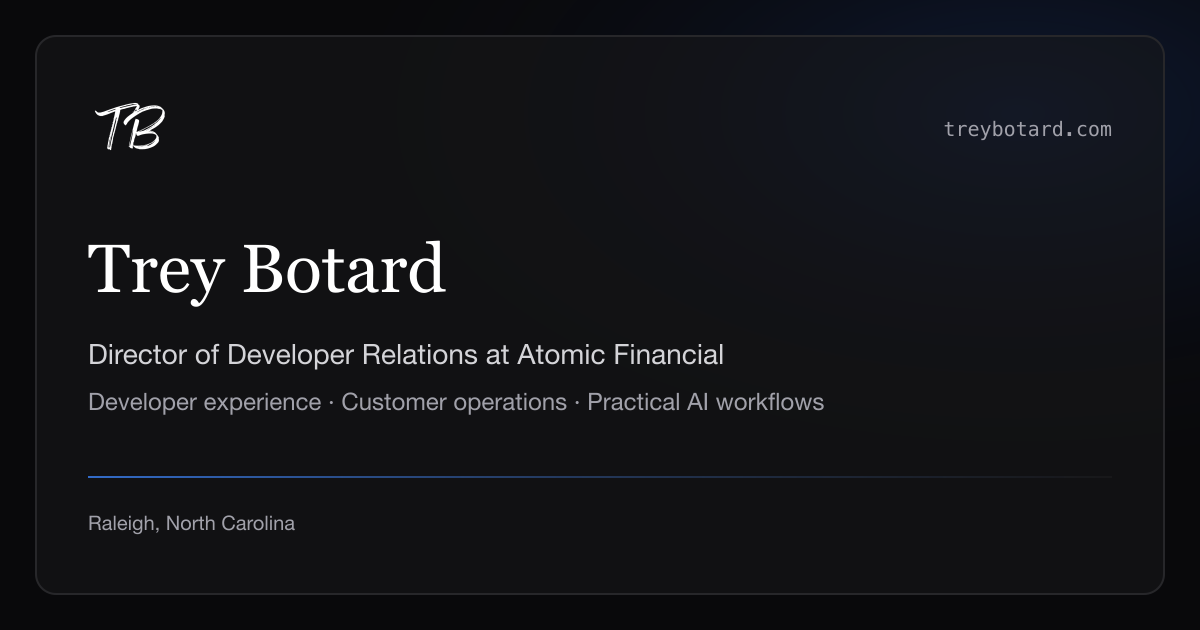
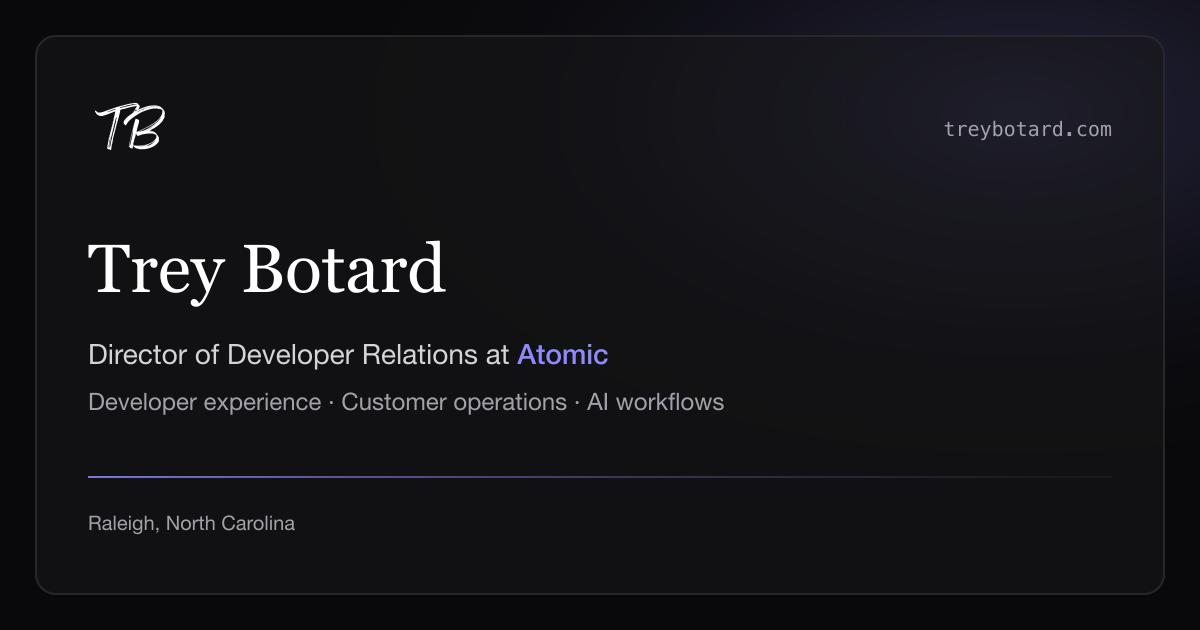
Remove em dashes, 'practical', and metric lines; style Atomic in Atomic purple

Changed region(s): [[0.0925, 0.754, 0.4933, 0.7841], [0.4933, 0.6032, 0.6783, 0.6635], [0.4317, 0.5429, 0.6167, 0.6032]]

diff --git a/data/site.ts b/data/site.ts
@@ -11,7 +11,9 @@ export type SocialProfile = {
 };
 
 export type SelectedWorkItem = {
-  eyebrow: string;
+  organization: string;
+  organizationHighlight?: boolean;
+  category: string;
   title: string;
   paragraphs: string[];
   tags: string[];
@@ -42,18 +44,18 @@ export type SpeakingItem = {
 export const siteConfig = {
   name: "Trey Botard",
   role: "Director of Developer Relations",
-  company: "Atomic Financial",
+  company: "Atomic",
   companyUrl: "https://atomic.financial",
   location: "Raleigh, North Carolina",
   url: "https://www.treybotard.com/",
   ogImage: "https://www.treybotard.com/og.png",
   title: "Trey Botard",
   description:
-    "Director of Developer Relations at Atomic Financial. Building developer experience, customer operations systems, and practical AI workflows.",
+    "Director of Developer Relations at Atomic. Building developer experience, customer operations systems, and AI workflows.",
   ogDescription:
-    "Director of Developer Relations at Atomic Financial — developer experience, customer operations systems, and practical AI workflows.",
+    "Director of Developer Relations at Atomic. Developer experience, customer operations systems, and AI workflows.",
   twitterDescription:
-    "Director of Developer Relations at Atomic Financial — developer experience, customer systems, and practical AI workflows.",
+    "Director of Developer Relations at Atomic. Developer experience, customer systems, and AI workflows.",
   linkedinUrl: "https://www.linkedin.com/in/treybotard",
   githubUrl: "https://github.com/tr3yb0",
 } as const;
@@ -96,28 +98,31 @@ export const socialProfiles: SocialProfile[] = [
 
 export const selectedWorkItems: SelectedWorkItem[] = [
   {
-    eyebrow: "Atomic Financial · Customer Operations",
+    organization: "Atomic",
+    organizationHighlight: true,
+    category: "Customer Operations",
     title: "Customer operations in Pylon",
     paragraphs: [
       "Customer requests were scattered across calls, Slack, email, spreadsheets, and issue trackers. I centralized intake in Pylon, connected requests to customer context, and defined ownership and escalation paths across implementation, support, reporting, and engineering.",
-      "From February through July 15, 2026, 235 of 277 issues assigned to me reached a closed or completed state.",
     ],
     tags: ["Workflow discovery", "Systems design", "Cross-functional adoption"],
   },
   {
-    eyebrow: "Atomic Financial · Developer Experience",
+    organization: "Atomic",
+    organizationHighlight: true,
+    category: "Developer Experience",
     title: "Executable developer experience",
     paragraphs: [
       "Built and connected API guidance, quickstarts, Postman workflows, demos, videos, SDK and webhook enablement, and release notes so developers and internal teams have working paths through Atomic’s platform.",
-      "439 commits across 24 repositories, including 224 commits to public documentation.",
     ],
     tags: ["Developer adoption", "Docs & quickstarts", "Self-service enablement"],
   },
   {
-    eyebrow: "Personal Lab · Applied AI",
+    organization: "Personal Lab",
+    category: "Applied AI",
     title: "AI operating layer for everyday work",
     paragraphs: [
-      "Testing a local-first AI workflow layer for personal and household ops across Linear, Calendar, a local Markdown knowledge graph, and selected shared Notion pages—focused on explicit sources of truth, draft-first safeguards, and staying useful over time.",
+      "Testing a local-first AI workflow layer for personal and household ops across Linear, Calendar, a local Markdown knowledge graph, and selected shared Notion pages, focused on explicit sources of truth, draft-first safeguards, and staying useful over time.",
     ],
     tags: ["AI workflows", "Tool routing", "Safeguards"],
     featured: true,
@@ -129,7 +134,7 @@ export const approachSteps: ApproachStep[] = [
     number: "01",
     title: "Start with real friction",
     description:
-      "Look across tickets, handoffs, docs, and customer calls for what actually repeats—not just the loudest one-off ask.",
+      "Look across tickets, handoffs, docs, and customer calls for what actually repeats, not just the loudest one-off ask.",
   },
   {
     number: "02",
@@ -148,11 +153,11 @@ export const approachSteps: ApproachStep[] = [
 export const experienceItems: ExperienceItem[] = [
   {
     role: "Director of Developer Relations",
-    company: "Atomic Financial",
+    company: "Atomic",
     companyUrl: "https://atomic.financial",
     current: true,
     description:
-      "Leading developer experience and technical adoption—covering public docs and API enablement, customer implementation, internal operating systems, enterprise delivery, and practical AI workflows.",
+      "Leading developer experience and technical adoption, covering public docs and API enablement, customer implementation, internal operating systems, enterprise delivery, and AI workflows.",
   },
   {
     role: "Developer Advocate",
@@ -196,5 +201,5 @@ export const speakingItems: SpeakingItem[] = [
 export const connectTopics = [
   "Developer experience & adoption",
   "Customer-facing operating systems",
-  "Practical AI workflows",
+  "AI workflows",
 ] as const;

diff --git a/components/Bio.vue b/components/Bio.vue
@@ -7,7 +7,7 @@ import { siteConfig } from "~/data/site";
     <div class="mb-10 flex items-center lg:hidden">
       <NuxtLink
         to="/"
-        aria-label="Trey Botard — Home"
+        aria-label="Trey Botard, Home"
         class="inline-flex items-center rounded p-1 focus-visible:outline focus-visible:outline-2 focus-visible:outline-offset-2 focus-visible:outline-blue-400"
       >
         <img
@@ -28,7 +28,8 @@ import { siteConfig } from "~/data/site";
     <p
       class="font-mono text-xs font-medium uppercase tracking-[0.18em] text-blue-400"
     >
-      {{ siteConfig.role }} · {{ siteConfig.company }}
+      {{ siteConfig.role }} ·
+      <span class="text-atomic">{{ siteConfig.company }}</span>
     </p>
     <h1
       class="mt-5 font-display text-4xl font-medium leading-[1.12] tracking-tight text-white sm:text-5xl"
@@ -43,13 +44,13 @@ import { siteConfig } from "~/data/site";
         :to="siteConfig.companyUrl"
         target="_blank"
         rel="noopener noreferrer"
-        class="rounded text-white underline decoration-zinc-600 underline-offset-4 transition-colors hover:text-blue-300 hover:decoration-blue-400 focus-visible:outline focus-visible:outline-2 focus-visible:outline-offset-2 focus-visible:outline-blue-400"
+        class="rounded font-medium text-atomic underline decoration-atomic/40 underline-offset-4 transition-colors hover:text-atomic-light hover:decoration-atomic-light focus-visible:outline focus-visible:outline-2 focus-visible:outline-offset-2 focus-visible:outline-atomic"
       >
         {{ siteConfig.company
         }}<span class="sr-only"> (opens in new tab)</span></NuxtLink
-      >—building docs, tools, and internal workflows that remove recurring
-      friction. Lately, I’ve also been building practical AI workflows for
-      day-to-day coordination and ops.
+      >, building docs, tools, and internal workflows that remove recurring
+      friction. Lately, I’ve also been building AI workflows for day-to-day
+      coordination and ops.
     </p>
 
     <div class="mt-8 flex flex-wrap gap-3">

diff --git a/components/Experience.vue b/components/Experience.vue
@@ -20,7 +20,7 @@ import { experienceItems } from "~/data/site";
         v-for="item in experienceItems"
         :key="`${item.role}-${item.company}`"
         class="border-l-2 pl-5"
-        :class="item.current ? 'border-blue-500' : 'border-zinc-700'"
+        :class="item.current ? 'border-atomic' : 'border-zinc-700'"
       >
         <div class="flex flex-wrap items-center gap-2.5">
           <h3 class="text-lg font-semibold text-white">
@@ -28,21 +28,21 @@ import { experienceItems } from "~/data/site";
           </h3>
           <span
             v-if="item.current"
-            class="rounded-full border border-blue-500/30 bg-blue-950/50 px-2.5 py-0.5 font-mono text-xs text-blue-300"
+            class="rounded-full border border-atomic/30 bg-atomic/10 px-2.5 py-0.5 font-mono text-xs text-atomic-light"
           >
             Current
           </span>
         </div>
         <p
           class="mt-0.5 text-sm"
-          :class="item.current ? 'text-blue-400' : 'text-zinc-400'"
+          :class="item.current ? 'text-atomic' : 'text-zinc-400'"
         >
           <NuxtLink
             v-if="item.companyUrl"
             :to="item.companyUrl"
             target="_blank"
             rel="noopener noreferrer"
-            class="rounded hover:text-blue-300 hover:underline focus-visible:outline focus-visible:outline-2 focus-visible:outline-offset-2 focus-visible:outline-blue-400"
+            class="rounded font-medium text-atomic hover:text-atomic-light hover:underline focus-visible:outline focus-visible:outline-2 focus-visible:outline-offset-2 focus-visible:outline-atomic"
           >
             {{ item.company }}<span class="sr-only"> (opens in new tab)</span>
           </NuxtLink>

diff --git a/components/TBFooter.vue b/components/TBFooter.vue
@@ -5,7 +5,18 @@ import { siteConfig, socialProfiles } from "~/data/site";
 <template>
   <footer class="border-t border-zinc-800 pt-8 text-sm text-zinc-400">
     <p class="font-medium text-zinc-200">{{ siteConfig.name }}</p>
-    <p class="mt-1">{{ siteConfig.role }} at {{ siteConfig.company }}</p>
+    <p class="mt-1">
+      {{ siteConfig.role }} at
+      <NuxtLink
+        :to="siteConfig.companyUrl"
+        target="_blank"
+        rel="noopener noreferrer"
+        class="rounded font-medium text-atomic hover:text-atomic-light hover:underline focus-visible:outline focus-visible:outline-2 focus-visible:outline-offset-2 focus-visible:outline-atomic"
+      >
+        {{ siteConfig.company
+        }}<span class="sr-only"> (opens in new tab)</span>
+      </NuxtLink>
+    </p>
     <p>{{ siteConfig.location }}</p>
     <nav class="mt-5 flex flex-row gap-1.5" aria-label="Social profiles">
       <NuxtLink

diff --git a/components/SelectedWork.vue b/components/SelectedWork.vue
@@ -30,7 +30,10 @@ import { selectedWorkItems } from "~/data/site";
           class="font-mono text-xs font-medium uppercase tracking-[0.16em]"
           :class="item.featured ? 'text-blue-400' : 'text-zinc-400'"
         >
-          {{ item.eyebrow }}
+          <span :class="item.organizationHighlight ? 'text-atomic' : ''">{{
+            item.organization
+          }}</span>
+          <span> · {{ item.category }}</span>
         </p>
         <h3 class="mt-2.5 text-xl font-semibold text-white">
           {{ item.title }}

diff --git a/components/Contact.vue b/components/Contact.vue
@@ -18,8 +18,8 @@ import { connectTopics, siteConfig } from "~/data/site";
       Let’s compare notes
     </h2>
     <p class="mt-4 max-w-2xl text-lg leading-8 text-zinc-300">
-      Working on developer experience, customer operations, or practical AI
-      workflows? Happy to compare notes.
+      Working on developer experience, customer operations, or AI workflows?
+      Happy to compare notes.
     </p>
 
     <ul class="mt-5 flex flex-wrap gap-2" aria-label="Conversation topics">

diff --git a/pages/index.vue b/pages/index.vue
@@ -12,7 +12,7 @@ useSeoMeta({
   ogImageWidth: 1200,
   ogImageHeight: 630,
   ogImageAlt:
-    "Trey Botard — Developer Relations, Technical Adoption, and Applied AI",
+    "Trey Botard: Developer Relations, Technical Adoption, and Applied AI",
   twitterCard: "summary_large_image",
   twitterTitle: siteConfig.title,
   twitterDescription: siteConfig.twitterDescription,

diff --git a/components/LogoButton.vue b/components/LogoButton.vue
@@ -5,7 +5,7 @@ import { siteConfig } from "~/data/site";
 <template>
   <NuxtLink
     to="/"
-    aria-label="Trey Botard — Home"
+    aria-label="Trey Botard, Home"
     class="group inline-flex flex-col items-start rounded p-1 focus-visible:outline focus-visible:outline-2 focus-visible:outline-offset-2 focus-visible:outline-blue-400"
   >
     <img

diff --git a/tailwind.config.js b/tailwind.config.js
@@ -3,6 +3,12 @@ import plugin from "tailwindcss/plugin";
 
 export const theme = {
   extend: {
+    colors: {
+      atomic: {
+        DEFAULT: "#9089FC",
+        light: "#B4A9FF",
+      },
+    },
     fontFamily: {
       display: ['"Newsreader"', "Georgia", "serif"],
       sans: ['"Plus Jakarta Sans"', "system-ui", "sans-serif"],

diff --git a/README.md b/README.md
@@ -1,16 +1,16 @@
 # treybotard.com
 
-Personal website for Trey Botard — Developer Experience, Customer Systems, and Applied AI.
+Personal website for Trey Botard: Developer Experience, Customer Systems, and Applied AI.
 
 Built with **Nuxt 3**, **Tailwind CSS**, and **@nuxt/icon** (bundled locally).
 
 ## Structure
 
-- [data/site.ts](data/site.ts) — Typed content, navigation, selected work, approach, experience, speaking, and social links
-- [composables/useActiveSection.ts](composables/useActiveSection.ts) — `IntersectionObserver` scrollspy for desktop and mobile navigation
-- [pages/index.vue](pages/index.vue) — Main page, SEO/OpenGraph metadata, and JSON-LD structured data
-- [layouts/default.vue](layouts/default.vue) — Sticky desktop sidebar, mobile header nav, and skip-to-content link
-- [components/](components/) — Page sections (`Bio`, `SelectedWork`, `Approach`, `Experience`, `Speaking`, `Contact`, `TBFooter`, navigation)
+- [data/site.ts](data/site.ts): Typed content, navigation, selected work, approach, experience, speaking, and social links
+- [composables/useActiveSection.ts](composables/useActiveSection.ts): `IntersectionObserver` scrollspy for desktop and mobile navigation
+- [pages/index.vue](pages/index.vue): Main page, SEO/OpenGraph metadata, and JSON-LD structured data
+- [layouts/default.vue](layouts/default.vue): Sticky desktop sidebar, mobile header nav, and skip-to-content link
+- [components/](components/): Page sections (`Bio`, `SelectedWork`, `Approach`, `Experience`, `Speaking`, `Contact`, `TBFooter`, navigation)
 
 ## Development
 
